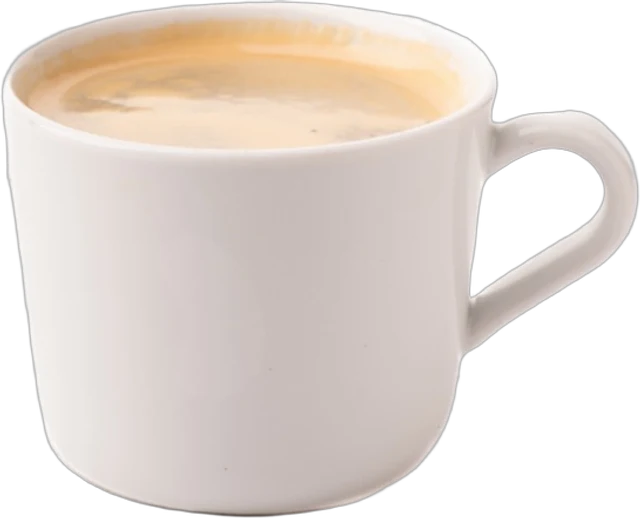
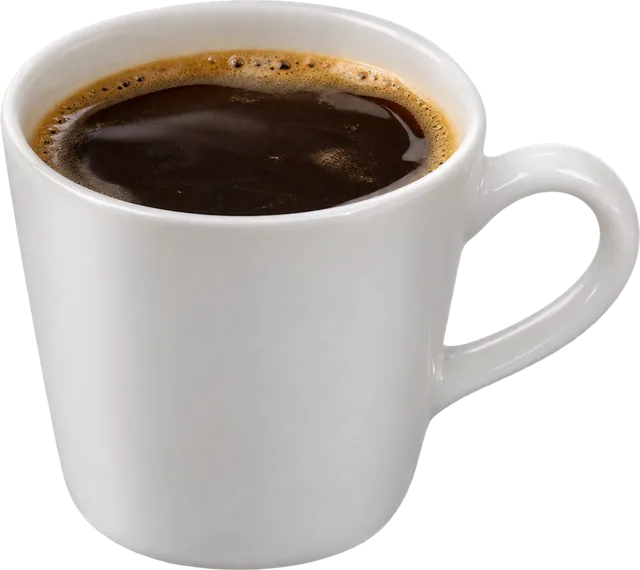
Görseller: Double Espresso, Türk Kahvesi, Americano, Filtre Kahve, Turşu Tabağı, Patates Kızartması, Zahter Dip (işletmenin şeffaf PNG'leri); IMG_V 13

diff --git a/scripts/prep-realistic.py b/scripts/prep-realistic.py
@@ -33,7 +33,14 @@ ALIAS = {
     'Çıtır tavuk ve patates sunumu': 'Golden Chıck',
     'Soslu peynirli patates kızartması tepsisi': 'Trüflü Parmesanlı Patates Kızartması',
     'Beyaz tabakta gerçekçi tiramisu dilimi': 'TİRAMİSU',
-    'Mercan tonlu acılı sos kâsesi': 'DYNAMITE SOS',      # soslarda henüz img yok → şimdilik atlanır
+    'Mercan tonlu acılı sos kâsesi': 'DYNAMITE SOS',
+    'Beyaz fincanda altın kremalı çift espresso': 'Double Espresso',
+    'Beyaz fincanda geleneksel Türk kahvesi': 'TÜRK KAHVESİ',
+    'Beyaz fincanda koyu Americano': 'Amerıcano',
+    'Beyaz porselen kupada sıcak filtre kahve': 'Filtre Kahve',
+    'Metal kapta pembe lahana ve karışık turşu': 'Turşu Tabağı',
+    'Metal tepside çıtır patates ve dip sos': 'Patates Kızartması',
+    'Çıtır ekmekli kremalı dip sunumu': 'Zahter Dıp',
 }
 ALIAS = {key(k): key(v) for k, v in ALIAS.items()}
 
